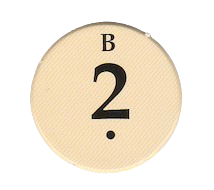
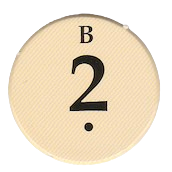
Added proper probability token behaviour

Changed region(s): [[0.0291, 0.0581, 0.9302, 0.9593], [0.3779, 0.3198, 0.6395, 0.7849]]

diff --git a/index.js b/index.js
@@ -11,7 +11,6 @@ var allProbs = [2, 3, 3, 4, 4, 5, 5, 6, 6, 8, 8, 9, 9, 10, 10, 11, 11, 12];
 var allShips = ["31", "31", "31", "31", "wheat", "ore", "wood", "brick", "sheep"];
 
 $("button").on("click", function () { 
-    alert("Generating");
     addAllTiles();
 
 
@@ -38,35 +37,48 @@ $("button").on("click", function () {
 function addAllTiles() {
     shuffle(allPieces);
     shuffle(allProbs);
+    console.log(allProbs);
+
+    var tokenCount = 0;
 
     for (var i = 0; i < allPieces.length; i ++) {
         if (allPieces[i] != "desert") {
             addTile(i, allPieces[i]);
+            addToken(i, allProbs[tokenCount]);
+            tokenCount++;
         } else {
             addTile(i, allPieces[i]);
         }
     }
+
 }
 
 
-function addProbs(num) {
-    
+function addToken(position, num) {
+    var probToken = document.createElement("img")
+    var imageSrc = "assets/tokens/" + num + ".png"
+    probToken.src = imageSrc;
+    var position = "tile_" + position;
+    probToken.classList.add(position);
+    probToken.classList.add("token");
+    document.body.appendChild(probToken);
 }
 
 
-function addTile(num, image) {
-    var img = document.createElement("img");
+function addTile(num, image) {    
+    var tile = document.createElement("img");
     var imageSrc = "assets/tiles/" + image + ".png"
-    img.src = imageSrc;
+    tile.src = imageSrc;
     var position = "tile_" + num;
-    img.classList.add(position);
+    tile.classList.add(position);
 
     if (num < 7) {
-        img.classList.add("tile_upper");
+        tile.classList.add("tile_upper");
     } else {
-        img.classList.add("tile");
+        tile.classList.add("tile");
     }
 
-    document.body.appendChild(img);
+    document.body.appendChild(tile);
 }
+
 

diff --git a/style.css b/style.css
@@ -17,6 +17,14 @@ h1 {
     color:rgb(105, 48, 10);
 }
 
+.token {
+    max-width: 60px;
+    height: auto;
+    position: absolute;
+    transform: translate(42px, 52px);
+    z-index: 2;
+}
+
 .tile{
     max-width: 146.5px;
     height: auto;

diff --git a/index.html b/index.html
@@ -20,7 +20,6 @@
         </div>
 
 
-
     </div>
 
 
